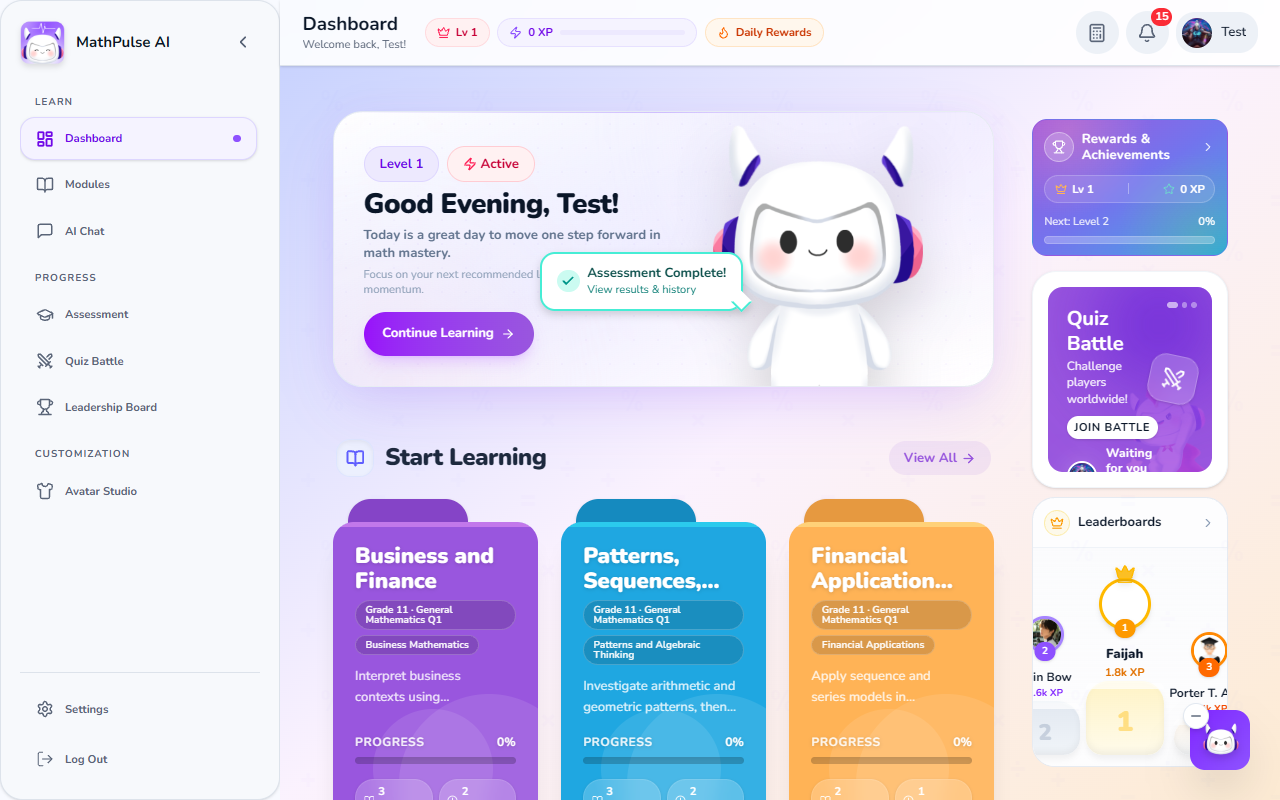
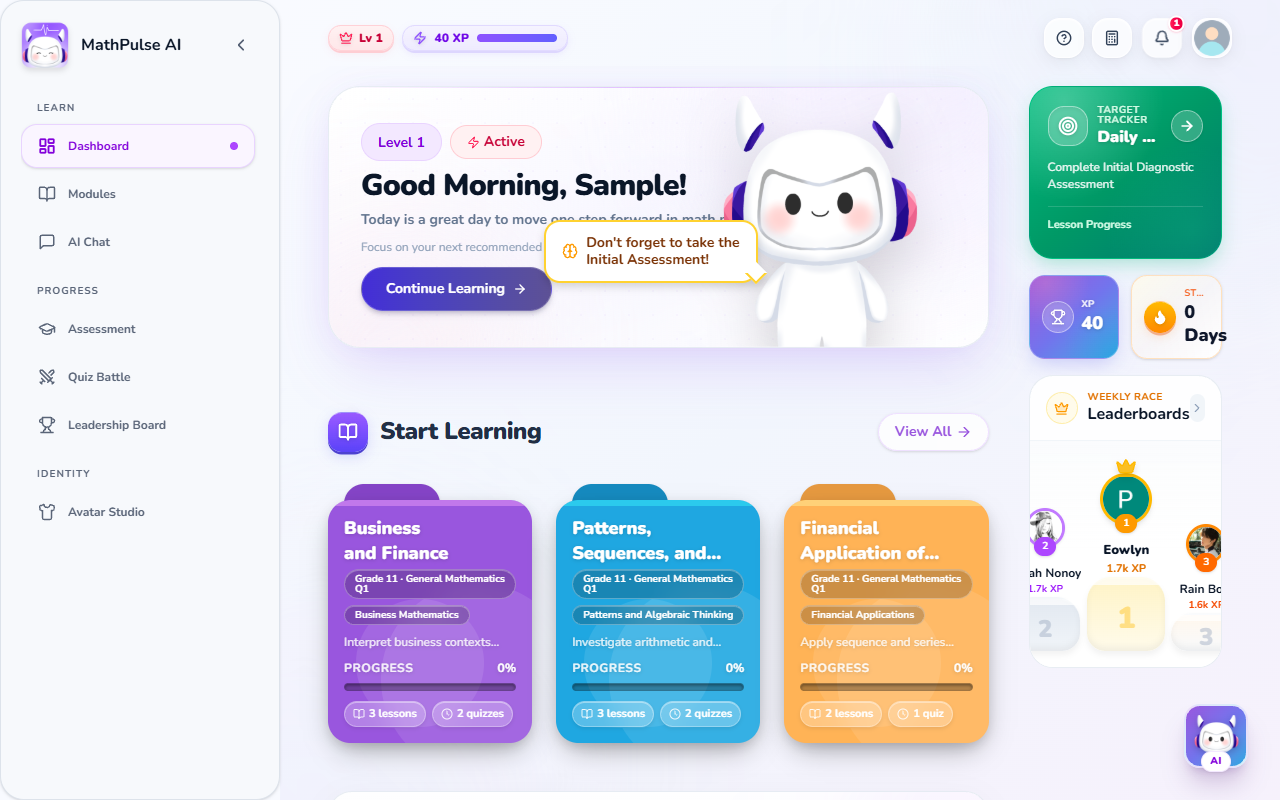
docs(readme): recapture screenshots from the current live app
The README screenshots and login GIF still showed the old login page
with 1-click demo buttons, which the live deploy no longer has.

- Recapture all six screenshots and the login mascot GIF from
  mathpulse-ai-2026.web.app.
- README: drop the 1-click demo table and retired test@school.edu
  accounts; describe the teacher/admin dashboards as they look now.
- capture-readme-screenshots.mjs: open a Chrome window per role for a
  manual sign-in (the script never handles credentials), close the
  Initial Assessment prompt with Escape (session-only, no Firestore
  write), optional role argument to recapture one role.
- capture-login-bot-gif.mjs: point at the live login page.

diff --git a/GATES.md b/GATES.md
@@ -1,27 +1,14 @@
-# Gates: stop the repetition stripper from deleting model replies
+# Gates: README screenshots of the current live app
 
-Scope: `call_hf_chat` (backend/main.py) passes every non-streaming model reply through `_strip_repetition`, written in February for small models that looped. The stripper records a block at each line in several lengths, so two lengths at the same line that collapse to the same text after `strip()` (any paragraph followed by a blank line) count as a "repeat". Normal Markdown loses paragraphs, sometimes all of them. Measured on the merged perf build: an ordinary first-turn chat returned HTTP 200 with an empty reply from 202 output tokens, and other replies kept only their last paragraph (430-char reply -> 107 chars offline). Pretty-printed quiz JSON is cut to half and stops parsing. 18 call sites in main.py use this path (non-streaming chat, step guides, quiz generation, solution checks, learning paths, insights); `/api/chat/stream` does not. PR CI, merge and the production deploy are checked after this commit and reported on the PR.
+Scope: the README screenshots (Sep 6) and login GIF showed the old login page with 1-click demo buttons, which the live deploy no longer has. Recapture all six screenshots and the GIF from mathpulse-ai-2026.web.app, update the README text that described the old login and data, and fix the capture scripts: the screenshot script now opens a Chrome window per role for a manual sign-in (it never handles credentials) and closes the Initial Assessment prompt with Escape (session-only, no Firestore write).
 
-- [x] G1: Model replies reach callers unchanged: a multi-paragraph Markdown tutor reply and a pretty-printed 10-question quiz both come back from call_hf_chat intact
-  CHECK: cd backend && python -X utf8 -m pytest tests/test_model_reply_passthrough.py -q -p no:cacheprovider 2>&1 | findstr /r /c:" passed" /c:" failed" /c:" error"
-  EXPECT: /^(?!.*\b(failed|errors?)\b).*\d+ passed/m
-  EVIDENCE: 3 passed in 27.88s
+- [x] G1: Six screenshots and the GIF are fresh captures of the current live app with no popup covering the page
+  EVIDENCE: 01-login (Welcome Back form, no demo buttons), 02-student-dashboard, 03-modules, 04-ai-chat (no Initial Assessment prompt), 05-teacher-dashboard, 06-admin-dashboard, all 1280x800 captured 2026-10-14 and checked by eye; login-bot-look.gif built from 9 live frames (video sweep 0.046 -> 2.254 s), 627 KB.
 
-- [x] G2: The new tests fail when the stripper is put back
-  EVIDENCE: with origin/main's backend/main.py (stripper present) swapped in: "3 failed in 181.47s" (both call_hf_chat cases and the /api/chat route case); fixed main.py restored afterwards (0 references to _strip_repetition). Offline probe of the old stripper: a 430-char five-paragraph tutor reply -> 107 chars (last paragraph only, matching the truncated benchmark reply "Once you find that value, ..."); a 182-char reply -> its last line; 10-question pretty-printed quiz JSON 4486 -> 2232 chars and invalid JSON.
+- [x] G2: README no longer promises 1-click demo login or lists the retired test accounts
+  CHECK: git grep -n -i -e "1-click" -e "QUICK DEMO" -e "teststudent@" -e "testteacher@" -e "testadmin@" -- README.md scripts/capture-readme-screenshots.mjs scripts/capture-login-bot-gif.mjs || echo NO_STALE_LOGIN_TEXT
+  EXPECT: NO_STALE_LOGIN_TEXT
 
-- [x] G3: Backend test suite fully green
-  CHECK: cd backend && set PYTHONPATH=C:\Users\APG\Downloads\MATHPULSE-AI\backend&& set PYTHONUTF8=1&& python -m pytest tests/ -q 2>&1 | findstr /r /c:" passed" /c:" failed" /c:" error"
-  EXPECT: /^(?!.*\b(failed|errors?)\b).*\d+ passed/m
-  EVIDENCE: 1165 passed, 2 warnings in 147.70s (0:02:27)
-
-- [x] G4: Backend mypy: no new errors (baseline 16, all in the pre-existing main.py block)
-  EVIDENCE: `python -m mypy --config-file mypy.ini --explicit-package-bases backend/main.py backend/analytics.py` -> "Found 16 errors in 1 file", all `object | Any` index/attr errors at main.py:8545-8567 (the pre-existing block, 28 lines up).
-
-- [x] G5: Live re-measure with the production models: no empty chat reply, every reply as long as its output tokens imply, and each 10-question quiz in one model call
-  EVIDENCE: live run on this fix (MODEL_PROFILE=prod, Haiku 5.5 through the real routes, Firebase off): first-turn chat replies 747 / 1269 / 452 chars from 273 / 468 / 195 output tokens (2.3-2.7 chars per token), none empty, 2.09 / 3.22 / 2.01 s; guided reply 1.64 s. The same benchmark on the merged code before this fix: 0 / 267 / 123 chars from 202 / 387 / 257 tokens. Quizzes 13.29 / 13.01 / 11.51 s, one call each (end_turn, 3119-3338 tokens); "Domain and Range of Functions" needed a second call in both earlier runs (22.38 s, 25.39 s).
-
-- [x] G6: No tracked file mentions the retired provider
-  CHECK: git grep -i -l -e "deep[s]eek" || echo NO_PROVIDER_MENTIONS
-  EXPECT: NO_PROVIDER_MENTIONS
-  EVIDENCE: NO_PROVIDER_MENTIONS
+- [x] G3: Every local image the README references exists
+  CHECK: node -e "const fs=require('fs');const m=[...fs.readFileSync('README.md','utf8').matchAll(/src=.([\w./:-]+)/g)].map(x=>x[1]).filter(p=>!p.startsWith('http')&&!fs.existsSync(p));console.log('MISSING='+m.length+' '+m.join(' '))"
+  EXPECT: /MISSING=0\b/

diff --git a/README.md b/README.md
@@ -70,7 +70,7 @@
 </p>
 
 <p align="center">
-  <em>Click the image above to open the live app on <a href="https://mathpulse-ai-2026.web.app">mathpulse-ai-2026.web.app</a> — sign in with a 1-click demo account, no setup required.</em>
+  <em>Click the image above to open the live app on <a href="https://mathpulse-ai-2026.web.app">mathpulse-ai-2026.web.app</a>.</em>
 </p>
 
 <p align="center">
@@ -107,17 +107,17 @@ MathPulse AI is an **installable, gamified learning platform** for SHS math — 
 
 ## Try it live
 
-No install, no keys. Open the deploy and pick a demo account:
+No install needed. Sign in with email/password or Google; demo accounts are available from the maintainer.
 
-| Account | 1-Click login | Lands on |
-| ------- | ------------- | -------- |
-| **Student** | `teststudent@school.edu` | Dashboard, Curriculum Modules, L.O.L.I. chat, Quiz Battle, Leaderboards |
-| **Teacher** | `testteacher@school.edu` | Class dashboard (12 students, at-risk flags), Class Analytics, AI Quiz Maker, Data Import |
-| **Admin** | `testadmin@school.edu` | Platform overview, User/Class Management, RAG Manager, Audit Log |
+| Account | Lands on |
+| ------- | -------- |
+| **Student** | Dashboard, Curriculum Modules, L.O.L.I. chat, Assessment, Quiz Battle, Leaderboards, Avatar Studio |
+| **Teacher** | Teacher dashboard (students, class average, engagement, at-risk count), My Classes, Topic Mastery, AI Quiz Maker, Question Bank, Data Import |
+| **Admin** | Platform overview, User/Class Management, RAG Manager, Curriculum Control, Analytics, Audit Log |
 
 > **[Open the live app →](https://mathpulse-ai-2026.web.app)**
 >
-> Screenshots in this README were captured from that deploy with Chrome DevTools (`docs/screenshots/`, re-capture anytime with `node scripts/capture-readme-screenshots.mjs`; login bot GIF with `node scripts/capture-login-bot-gif.mjs` + ffmpeg).
+> Screenshots in this README were captured from that deploy (`docs/screenshots/`). Re-capture with `node scripts/capture-readme-screenshots.mjs`: it opens a Chrome window per role, you sign in by hand, and it saves the shots. Login bot GIF: `node scripts/capture-login-bot-gif.mjs` + ffmpeg.
 
 ---
 
@@ -156,12 +156,12 @@ Gamified home base: hero greeting with Continue Learning, Start Learning module 
 ### Teacher studio
 
 <p align="center">
-  <img src="docs/screenshots/05-teacher-dashboard.png" alt="Teacher dashboard with class stats and AI insight" width="800" />
+  <img src="docs/screenshots/05-teacher-dashboard.png" alt="Teacher dashboard with student, class average, engagement and at-risk cards" width="800" />
 </p>
 
-Mission control for a class: headcount, class average, engagement, and at-risk counts up top; AI insight banner calling out students falling behind; class cards with risk badges; calendar + live activity stream on the rail.
+Mission control for a class: total students, class average, engagement, and needs-attention counts up top; My Classes with an unassigned-students prompt; schedule and calendar in the sidebar.
 
-- **Teacher Dashboard** — 12-student overview with AI-generated daily insight and review-student shortcut
+- **Teacher Dashboard** — class overview with AI-generated daily insight and review-student shortcut
 - **Risk Classification** — dual pipeline: Claude JSON-output labels + supervised XGBoost/RandomForest scoring with SHAP explanations
 - **Class Analytics & Topic Mastery** — per-student and class-wide metrics, topic performance views, competency tracking
 - **AI Quiz Maker & Question Bank** — import-grounded generation from uploaded class materials
@@ -174,7 +174,7 @@ Mission control for a class: headcount, class average, engagement, and at-risk c
   <img src="docs/screenshots/06-admin-dashboard.png" alt="Admin dashboard with platform overview and AI model status" width="800" />
 </p>
 
-Platform-wide command deck: active students/teachers/classes, XP event volume, at-risk alerts, AI-vs-manual activity chart, model success-rate monitor with health check, top-performer mastery cards, and subject breakdowns.
+Platform-wide command deck: quick actions (add faculty or student, class sections, upload curriculum, analytics hub), faculty / section / AI-session / intervention counts, a learning-engagement chart comparing AI tutoring with self-study, the academic honor roll, and subject breakdowns.
 
 - **Platform Overview** — students, teachers, classes, XP events, at-risk alerts at a glance
 - **User & Class Management** — create, edit, and manage accounts across all roles
